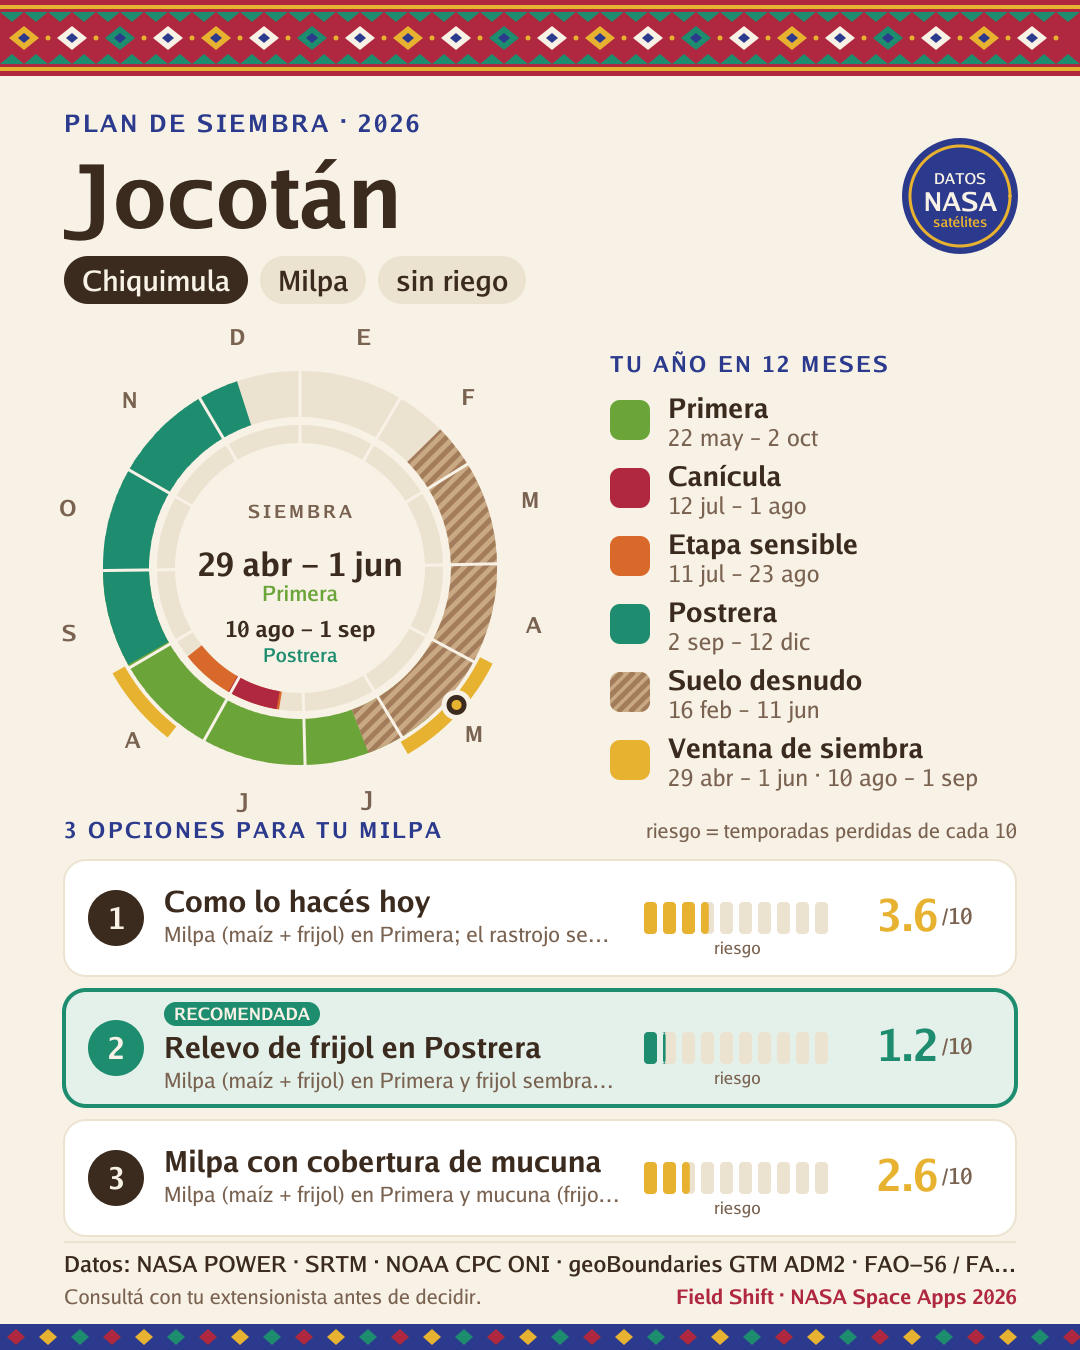
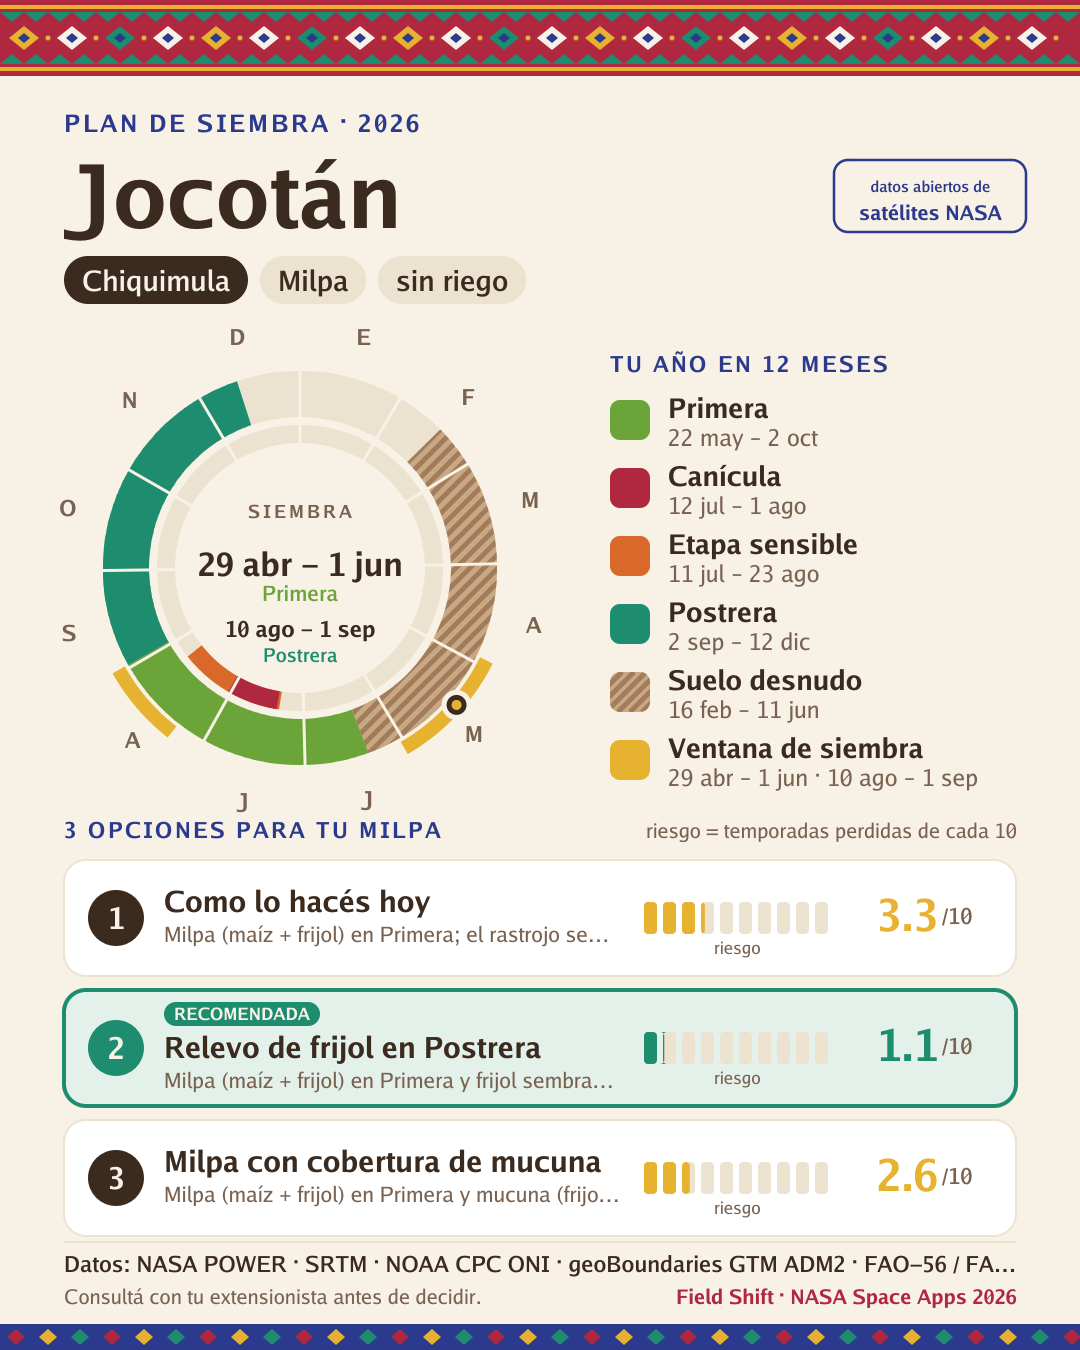
Tarjeta PNG: etiqueta de fuente en texto plano en vez del sello redondo con NASA (reglas de marca)

Changed region(s): [[0.7639, 0.0933, 0.9778, 0.1867], [0.825, 0.6533, 0.8861, 0.6844], [0.8556, 0.7467, 0.8861, 0.7778]]

diff --git a/internal/cards/cards.go b/internal/cards/cards.go
@@ -278,23 +278,16 @@ func cabecera(dc *gg.Context, p *contract.Plan, L string) {
 		cx += w + 36 + 12
 	}
 
-	// sello "datos NASA" a la derecha
-	sx, sy := float64(W-120), 196.0
+	// etiqueta de fuente a la derecha (texto plano, no un sello: sin logos ni aval de la NASA)
+	sx, sy := float64(W-150), 196.0
 	dc.SetColor(cAnil)
-	dc.DrawCircle(sx, sy, 58)
-	dc.Fill()
-	dc.SetColor(cMaiz)
-	dc.SetLineWidth(3)
-	dc.DrawCircle(sx, sy, 50)
+	dc.SetLineWidth(2.5)
+	dc.DrawRoundedRectangle(sx-96, sy-36, 192, 72, 14)
 	dc.Stroke()
-	dc.SetColor(cHueso)
 	dc.SetFontFace(face("med", 15))
-	dc.DrawStringAnchored(pick(L, [2]string{"DATOS", "DATA"}), sx, sy-20, 0.5, 0.5)
-	dc.SetFontFace(face("bold", 26))
-	dc.DrawStringAnchored("NASA", sx, sy+2, 0.5, 0.5)
-	dc.SetColor(cMaiz)
-	dc.SetFontFace(face("med", 14))
-	dc.DrawStringAnchored(pick(L, [2]string{"satélites", "satellites"}), sx, sy+24, 0.5, 0.5)
+	dc.DrawStringAnchored(pick(L, [2]string{"datos abiertos de", "open data from"}), sx, sy-12, 0.5, 0.5)
+	dc.SetFontFace(face("bold", 20))
+	dc.DrawStringAnchored(pick(L, [2]string{"satélites NASA", "NASA satellites"}), sx, sy+14, 0.5, 0.5)
 
 	if p.Generado == "fixture" {
 		dc.SetFontFace(face("bold", 18))
